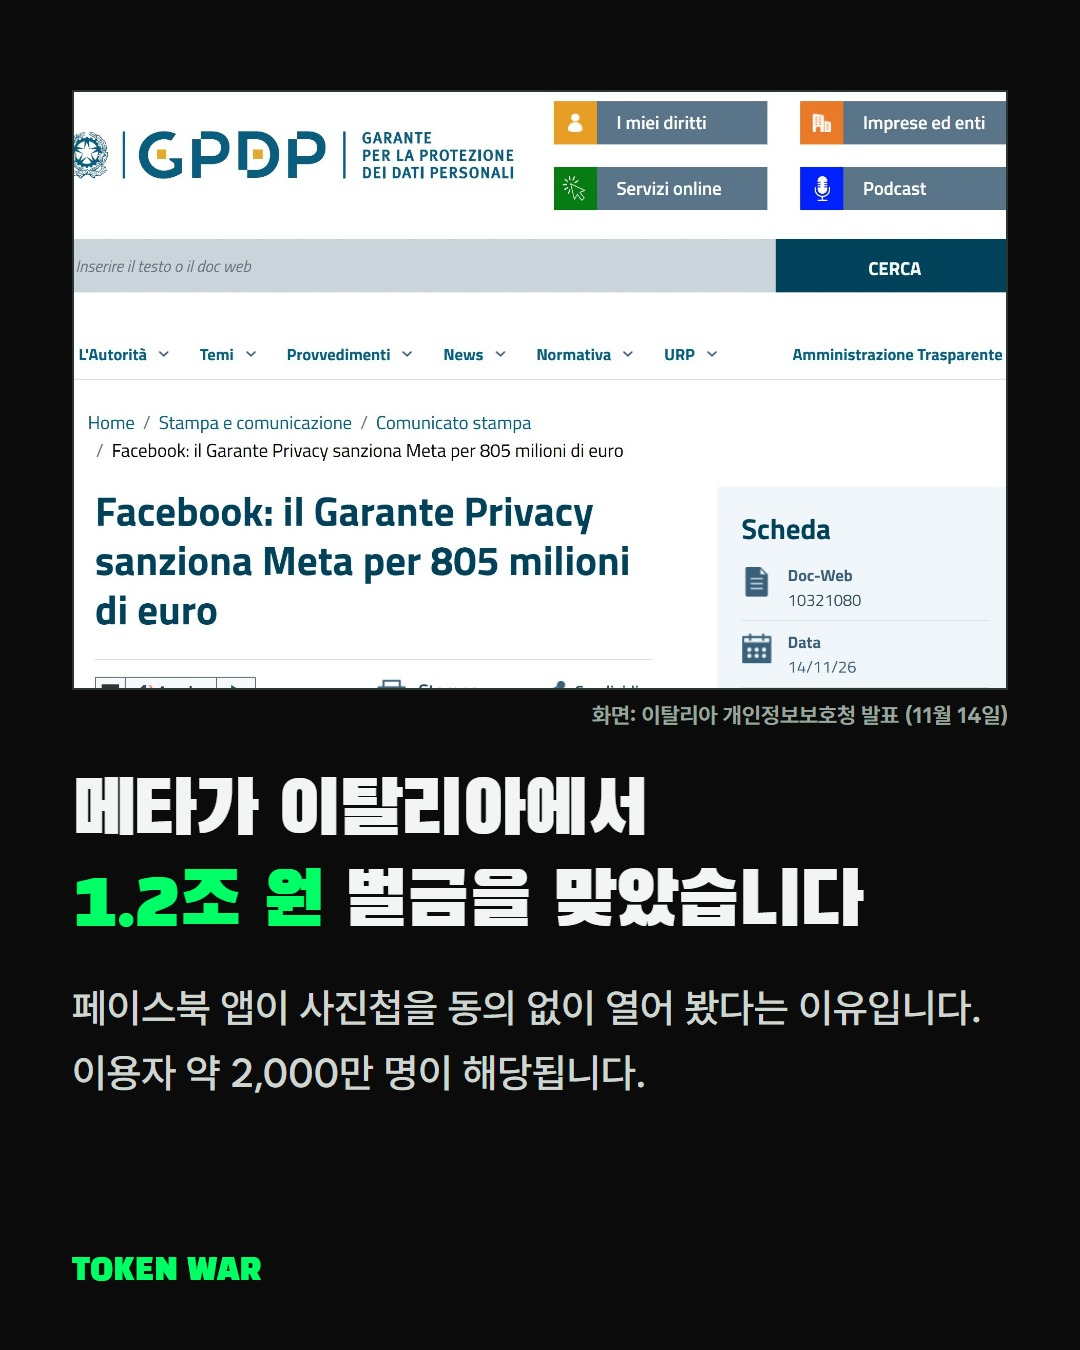
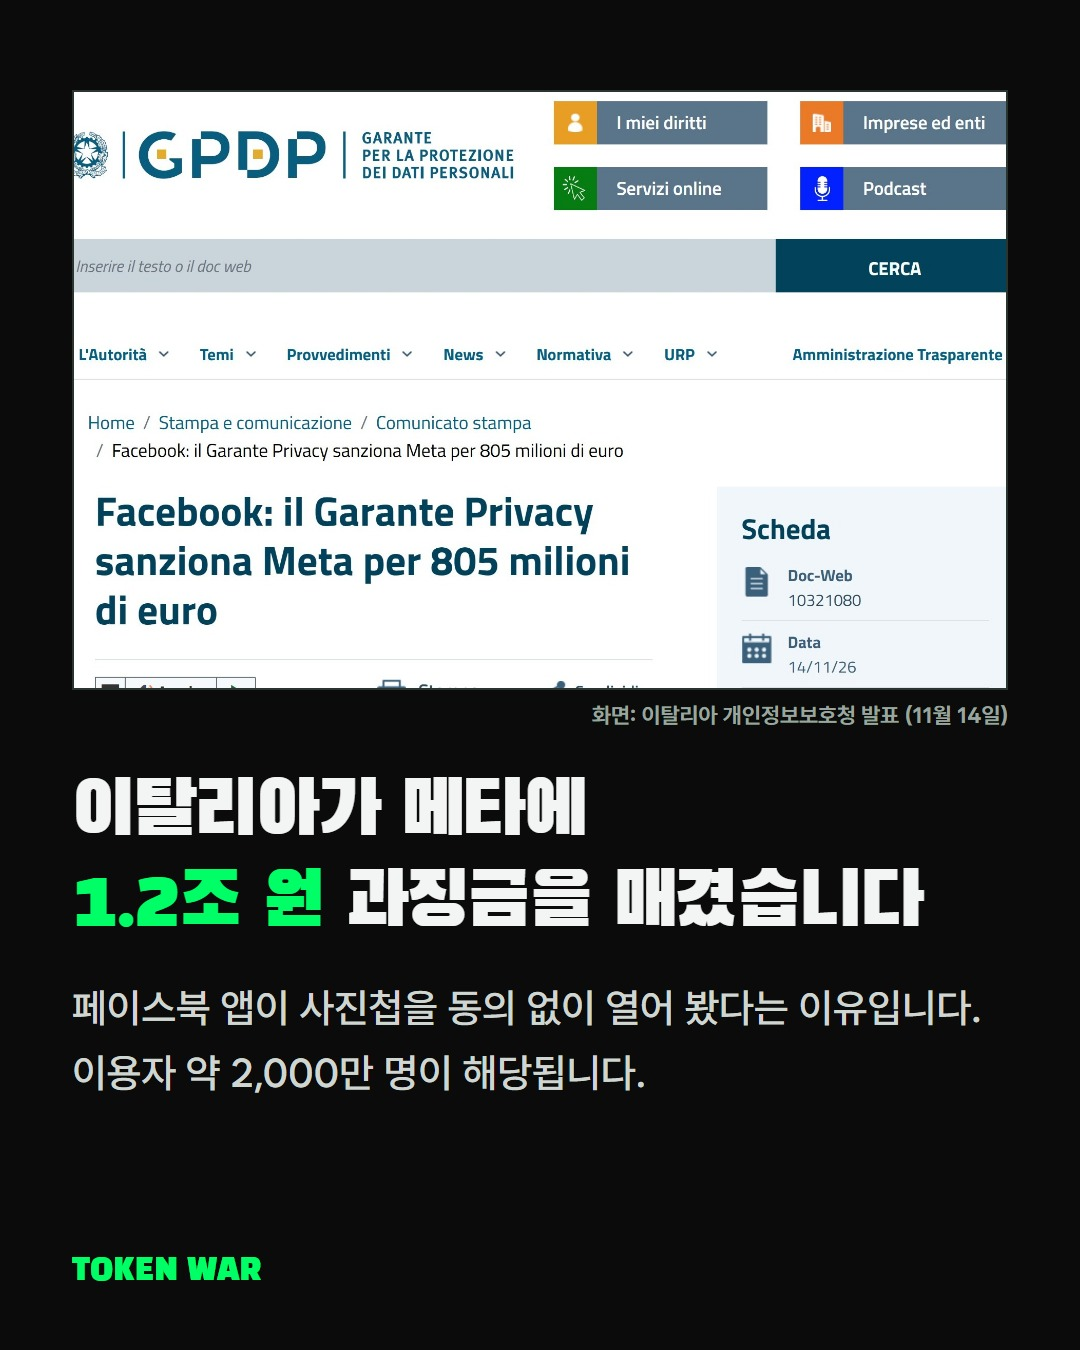
메타 카드 새 판(운영자): 2장 '과징금을 매겼습니다', 3장에서 '학습 거부 신청' 예고, 4~6장 '학습 거부 신청' 단계로, 표지 작은 글 '과징금'. 승인 전

Changed region(s): [[0.3056, 0.56, 0.8556, 0.6844], [0.0611, 0.56, 0.4889, 0.6222]]

diff --git a/docs/p/2026-11-17-carousel-meta-photo-ai-v2/index.html b/docs/p/2026-11-17-carousel-meta-photo-ai-v2/index.html
@@ -2,7 +2,7 @@
 <html lang="ko"><head><meta charset="utf-8">
 <meta name="viewport" content="width=device-width,initial-scale=1">
 <title>메타 AI의 개인 사진 학습을 막습니다 · 토큰전쟁</title>
-<meta name="description" content="메타는 인스타그램과 페이스북의 공개 게시물을 메타 AI 학습에 씁니다. 지금 메타 AI를 움직이는 모델은 Muse예요. 개인 사진 학습을 원하지 않으면 메타 개인정보 보호 센터에서 거부 신청을 할 수 있어요. 아래 ">
+<meta name="description" content="메타는 인스타그램과 페이스북의 공개 게시물을 메타 AI 학습에 씁니다. 지금 메타 AI를 움직이는 모델은 Muse예요. 개인 사진 학습을 원하지 않으면 메타 개인정보 보호 센터에서 학습 거부 신청을 할 수 있어요. ">
 <meta name="robots" content="noindex">
 <link rel="preconnect" href="https://fonts.googleapis.com">
 <link href="https://fonts.googleapis.com/css2?family=Black+Han+Sans&display=swap" rel="stylesheet">
@@ -55,10 +55,10 @@ ul{padding-left:20px;color:#CFD6D2}
 <body><main>
 <div class="brand">TOKEN WAR</div>
 <h1>메타 AI의 <span class="hl">개인 사진</span><br>학습을 막습니다</h1>
-<p class="intro">메타는 인스타그램과 페이스북의 공개 게시물을 메타 AI 학습에 씁니다. 지금 메타 AI를 움직이는 모델은 Muse예요. 개인 사진 학습을 원하지 않으면 메타 개인정보 보호 센터에서 거부 신청을 할 수 있어요. 아래 순서대로 해 보세요.</p>
+<p class="intro">메타는 인스타그램과 페이스북의 공개 게시물을 메타 AI 학습에 씁니다. 지금 메타 AI를 움직이는 모델은 Muse예요. 개인 사진 학습을 원하지 않으면 메타 개인정보 보호 센터에서 학습 거부 신청을 할 수 있어요. 아래 순서대로 해 보세요.</p>
 <div class="notice"><h3>공식 신청 링크</h3><p>메타 개인정보 보호 센터에 걸린 링크예요. 로그인한 상태에서 열어 보세요.</p><ul><li><a href="https://help.instagram.com/contact/233964459562201" rel="noopener">인스타그램 계정으로 신청</a> · 인스타그램 고객 센터</li><li><a href="https://www.facebook.com/help/contact/6359191084165019" rel="noopener">페이스북 계정으로 신청</a> · 페이스북 고객 센터</li><li><a href="https://www.facebook.com/privacy/genai/" rel="noopener">메타 개인정보 보호 센터 안내 페이지</a> · &#x27;이의를 제기할 권리&#x27; 항목</li></ul></div>
 <div class="rule"></div><h3>준비물</h3><ul><li>인스타그램 또는 페이스북 계정 (로그인한 상태)</li></ul>
-<section class="step"><span class="k">01</span><span class="lb">신청 페이지</span><h2>메타 신청 페이지에 들어갑니다</h2><div class="pr"><pre>https://www.facebook.com/privacy/genai/</pre><button type="button" onclick="cp(this)">복사</button></div><p>아래쪽 &#x27;이의를 제기할 권리&#x27;를 누릅니다.</p></section><section class="step"><span class="k">02</span><span class="lb">링크 누르기</span><h2>&#x27;Instagram&#x27;을 누릅니다</h2><p>&#x27;이의를 제기할 권리&#x27;를 펼치면 링크가 보입니다. 로그인하면 신청 양식이 열립니다.</p></section><section class="step"><span class="k">03</span><span class="lb">제출</span><h2>&#x27;제출&#x27;을 누릅니다</h2><p>열린 신청 양식에서 &#x27;제출&#x27;을 누릅니다. 메타가 앞으로 공개 게시물을 학습에 쓰지 않겠다는 확인 이메일을 보냅니다.</p></section><div class="rule"></div><h3>결과 예시</h3><p>신청이 접수되면 메타가 공개 게시물을 앞으로 AI 학습에 쓰지 않겠다는 확인 이메일을 보내요. 신청은 같은 계정 센터에 묶인 계정 모두에 적용돼요.</p>
+<section class="step"><span class="k">01</span><span class="lb">신청 페이지</span><h2>학습 거부 신청 페이지에 들어갑니다</h2><div class="pr"><pre>https://www.facebook.com/privacy/genai/</pre><button type="button" onclick="cp(this)">복사</button></div><p>아래쪽 &#x27;이의를 제기할 권리&#x27;를 누릅니다.</p></section><section class="step"><span class="k">02</span><span class="lb">링크 누르기</span><h2>&#x27;Instagram&#x27;을 누릅니다</h2><p>&#x27;이의를 제기할 권리&#x27;를 펼치면 링크가 보입니다. 로그인하면 신청 양식이 열립니다.</p></section><section class="step"><span class="k">03</span><span class="lb">제출</span><h2>&#x27;제출&#x27;을 누르면 학습 거부 신청이 끝납니다</h2><p>메타가 앞으로 공개 게시물을 학습에 쓰지 않겠다는 확인 이메일을 보냅니다.</p></section><div class="rule"></div><h3>결과 예시</h3><p>신청이 접수되면 메타가 공개 게시물을 앞으로 AI 학습에 쓰지 않겠다는 확인 이메일을 보내요. 신청은 같은 계정 센터에 묶인 계정 모두에 적용돼요.</p>
 <div class="src">출처<ul><li><a href="https://www.garanteprivacy.it/home/docweb/-/docweb-display/docweb/10321080" rel="noopener">이탈리아 개인정보보호청(Garante) 발표: 메타에 8억 500만 유로 (11월 14일)</a></li><li><a href="https://zdnet.co.kr/view/?no=20261115110940" rel="noopener">ZDNet Korea: 伊, 메타에 1.2조원 과징금 (11월 15일)</a></li><li><a href="https://www.aitimes.com/news/articleView.html?idxno=217416" rel="noopener">AI타임스: 메타, 사용자 사진 무단 접근으로 이탈리아서 1.2조 벌금</a></li><li><a href="https://www.facebook.com/privacy/genai/" rel="noopener">메타 개인정보 보호 센터: 생성형 AI 정보 사용 방식과 이의를 제기할 권리</a></li><li><a href="https://about.fb.com/news/2026/04/introducing-muse-spark-meta-superintelligence-labs/" rel="noopener">메타 발표: Introducing Muse Spark (메타 AI를 움직이는 새 모델, 2026년 4월)</a></li><li><a href="https://commons.wikimedia.org/wiki/File:Mark_Zuckerberg_F8_2019_Keynote_(46985052234).jpg" rel="noopener">표지 사진: Anthony Quintano, CC BY 2.0, 위키미디어 공용</a></li><li><a href="https://commons.wikimedia.org/wiki/File:Instagram_app_on_smartphone_(grass_background)_(cropped).jpg" rel="noopener">인스타그램 사진: Santeri Viinamäki, CC BY-SA 4.0, 위키미디어 공용</a></li></ul></div>
 <p class="foot">매일 AI 소식은 <a href="https://www.instagram.com/tokenwar_ai/">@tokenwar_ai</a></p>
 </main>

diff --git a/posts/queue/2026-11-17-carousel-meta-photo-ai-v2/dm.md b/posts/queue/2026-11-17-carousel-meta-photo-ai-v2/dm.md
@@ -25,7 +25,7 @@
 ## DM 문구
 
 ```
-메타 AI의 개인 사진 학습을 막는 신청 링크와 순서예요.
+메타 AI 학습 거부 신청 링크와 순서예요.
 아래 '자료 보기'를 누르면 공식 신청 링크를 모아 둔 페이지가 열려요.
 인스타그램이나 페이스북에 로그인한 상태에서 신청해 보세요.
 ```
